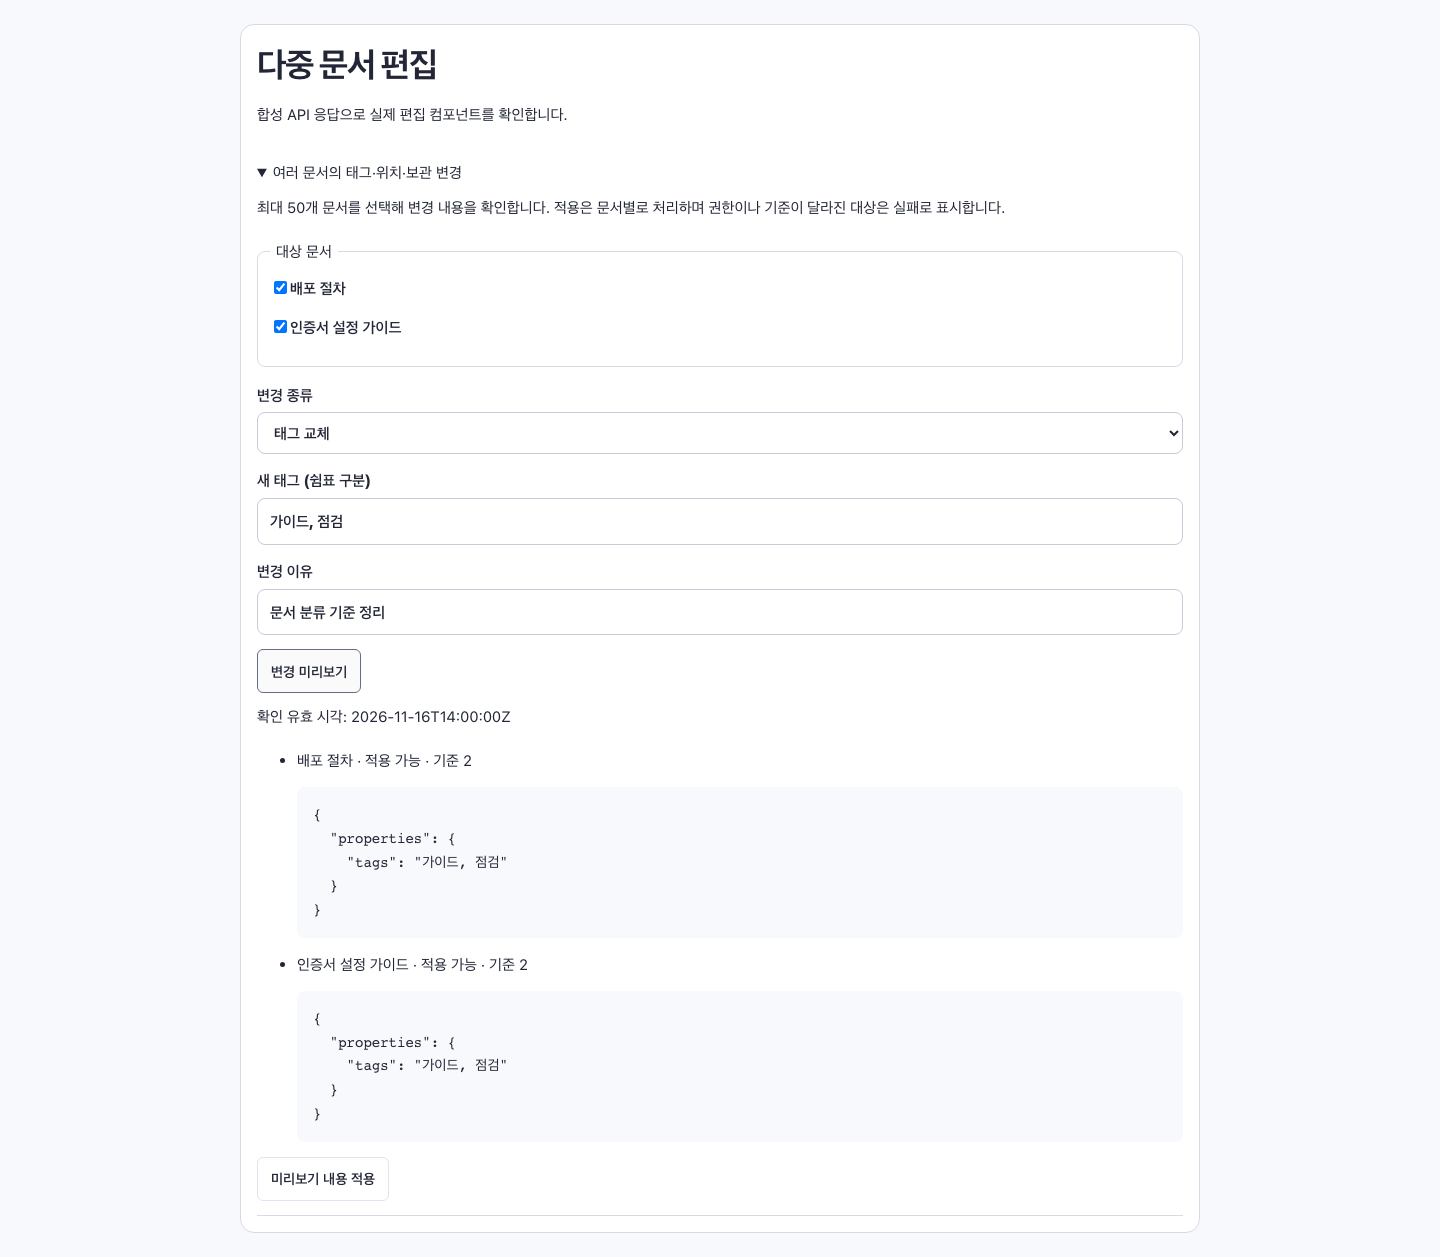
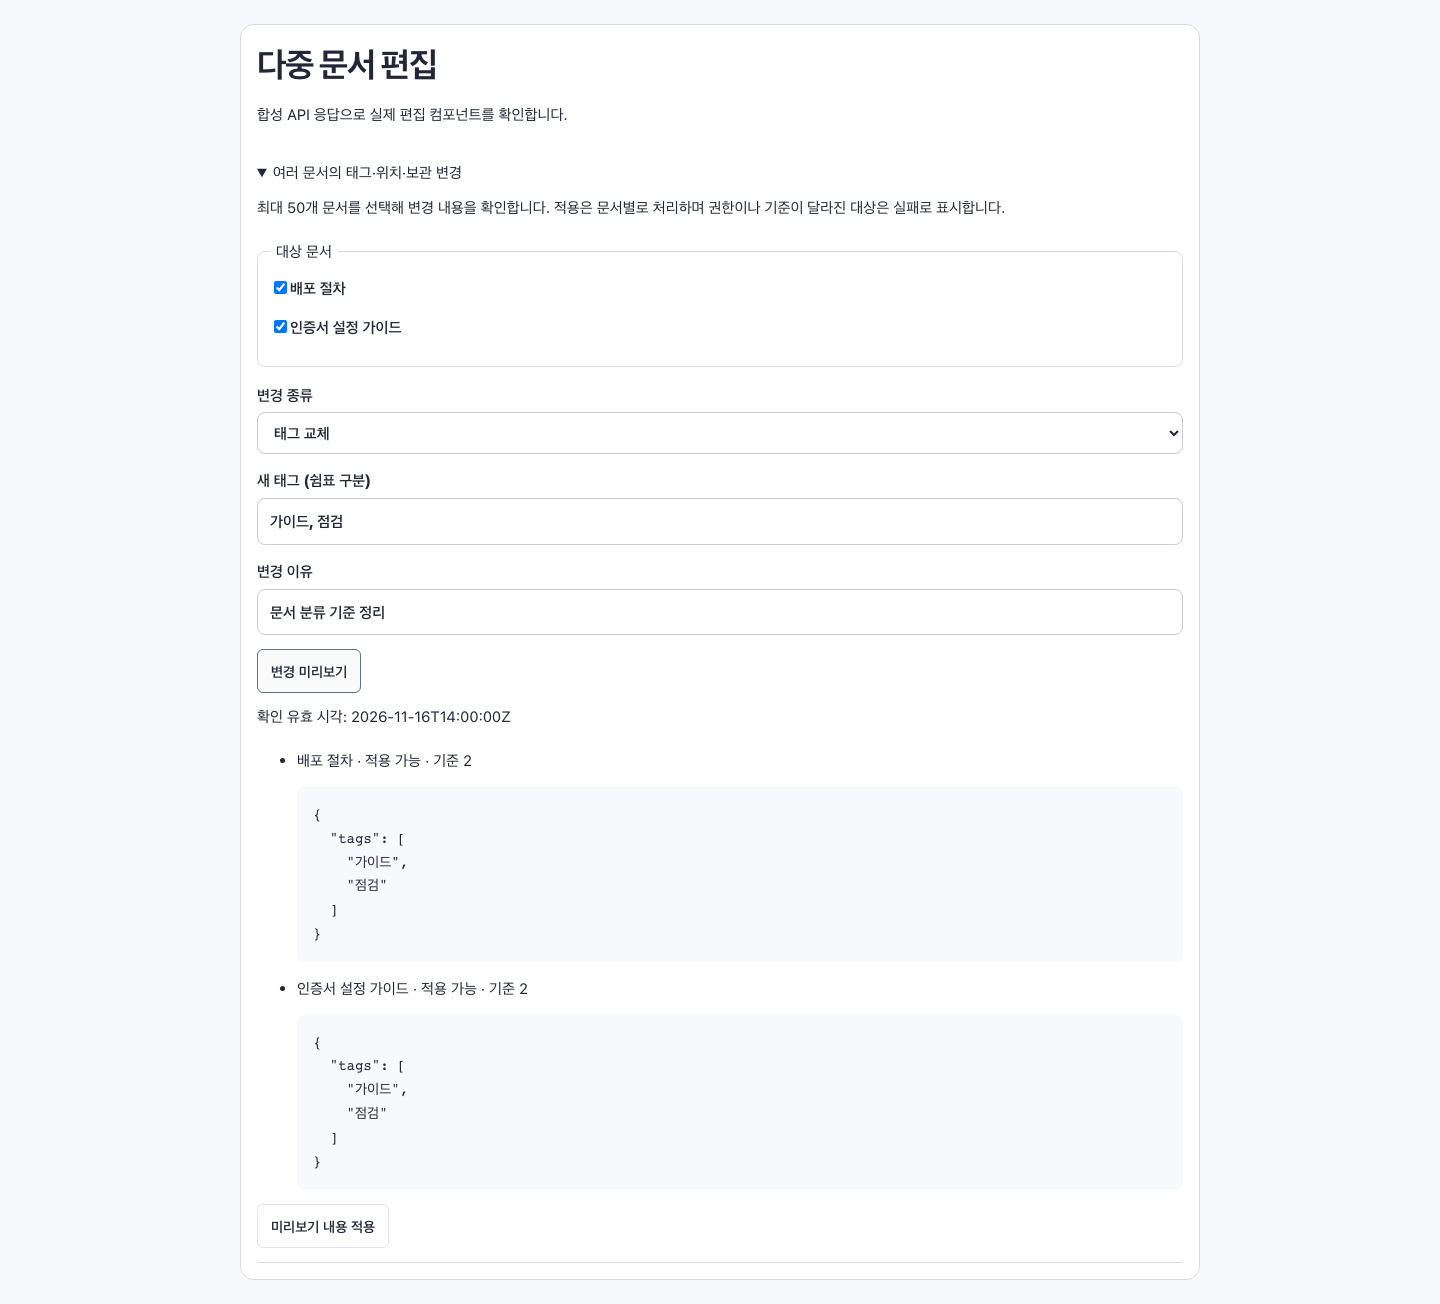
fix: synchronize canonical tags and reconcile bulk mutation receipts

diff --git a/src/operational/BulkEditor.tsx b/src/operational/BulkEditor.tsx
@@ -30,6 +30,7 @@ export function BulkEditor({
     [value, setValue] = useState(""),
     [reason, setReason] = useState(""),
     [preview, setPreview] = useState<Preview | null>(null),
+    [recovery, setRecovery] = useState<Preview | null>(null),
     [results, setResults] = useState<Outcome[]>([]),
     [busy, setBusy] = useState(false),
     [error, setError] = useState("");
@@ -38,6 +39,7 @@ export function BulkEditor({
     epoch.current++;
     setIds([]);
     setPreview(null);
+    setRecovery(null);
     setResults([]);
     setError("");
     setBusy(false);
@@ -48,6 +50,7 @@ export function BulkEditor({
   function change() {
     epoch.current++;
     setPreview(null);
+    setRecovery(null);
     setResults([]);
     setError("");
     setBusy(false);
@@ -58,13 +61,21 @@ export function BulkEditor({
     setError("");
     if (!apply) setPreview(null);
     try {
-      if (apply && preview) {
+      const chosen = preview ?? recovery;
+      if (apply && chosen) {
         const r = await api.post<{ items: Outcome[] }>(
           "/workflows/bulk/apply",
-          { token: preview.token },
+          { token: chosen.token },
         );
         if (request !== epoch.current) return;
         setResults(r.items);
+        setRecovery(
+          r.items.some(
+            (i) => i.status === "unconfirmed" || i.code === "NOT_PROCESSED",
+          )
+            ? chosen
+            : null,
+        );
         setPreview(null);
         try {
           await onChanged();
@@ -96,8 +107,12 @@ export function BulkEditor({
       }
     } catch (e) {
       if (request !== epoch.current) return;
+      if (apply) {
+        setRecovery(preview ?? recovery);
+      } else {
+        setResults([]);
+      }
       setPreview(null);
-      setResults([]);
       setError(e instanceof Error ? e.message : "요청 실패");
       if (
         typeof e === "object" &&
@@ -106,6 +121,8 @@ export function BulkEditor({
         [401, 403].includes(Number(e.status))
       ) {
         setIds([]);
+        setRecovery(null);
+        setResults([]);
         if (e.status === 401) onExpired();
       }
     } finally {
@@ -240,6 +257,11 @@ export function BulkEditor({
       )}
       {busy && <p role="status">처리 중입니다.</p>}
       {error && <p role="alert">{error}</p>}
+      {recovery && (
+        <Button disabled={busy} onClick={() => void run(true)}>
+          동일 요청의 처리 결과 다시 확인
+        </Button>
+      )}
       {results.length > 0 && (
         <section aria-label="일괄 변경 결과">
           <ul>
@@ -248,9 +270,11 @@ export function BulkEditor({
                 {pages.find((p) => p.id === r.id)?.title ?? "선택 문서"} ·{" "}
                 {r.status === "applied"
                   ? "적용됨"
-                  : r.status === "skipped"
-                    ? "제외됨"
-                    : "실패"}{" "}
+                  : r.status === "unconfirmed"
+                    ? "처리 확인 필요"
+                    : r.status === "skipped"
+                      ? "제외됨"
+                      : "실패"}{" "}
                 {r.code}
               </li>
             ))}
@@ -259,7 +283,14 @@ export function BulkEditor({
             onClick={() => {
               change();
               setIds(
-                results.filter((r) => r.status === "failed").map((r) => r.id),
+                results
+                  .filter(
+                    (r) =>
+                      r.status === "failed" ||
+                      r.status === "unconfirmed" ||
+                      r.code === "NOT_PROCESSED",
+                  )
+                  .map((r) => r.id),
               );
             }}
           >

diff --git a/server/workflows/service.ts b/server/workflows/service.ts
@@ -81,6 +81,7 @@ const docSchema = z
     restoreParentId: id.nullable().optional(),
     restoreTitle: z.string().trim().min(1).max(300).optional(),
     reason: z.string().trim().min(1).max(2000),
+    tags: z.array(z.string().trim().min(1).max(100)).max(30).optional(),
     properties: z.record(z.string().max(100), z.string().max(2000)).optional(),
     reviewDue: z.iso.datetime().nullable().optional(),
     effectiveFrom: z.iso.datetime().nullable().optional(),
@@ -200,8 +201,12 @@ export class WorkflowService {
       throw Error("NOT_FOUND");
     return p;
   }
-  bulkPreview(ctx: Context, input: unknown) { return bulkPreview(this, ctx, input); }
-  bulkApply(ctx: Context, input: unknown) { return bulkApply(this, ctx, input); }
+  bulkPreview(ctx: Context, input: unknown) {
+    return bulkPreview(this, ctx, input);
+  }
+  bulkApply(ctx: Context, input: unknown) {
+    return bulkApply(this, ctx, input);
+  }
   async drafts(ctx: Context) {
     return this.run(ctx, "draft.write", undefined, async (db) => {
       const rows = await db.query(
@@ -590,7 +595,12 @@ export class WorkflowService {
       },
     );
   }
-  async setDocumentState(ctx: Context, pageId: string, input: unknown) {
+  async setDocumentState(
+    ctx: Context,
+    pageId: string,
+    input: unknown,
+    bulkReceiptId?: string,
+  ) {
     const d = docSchema.parse(input);
     return this.run(
       ctx,
@@ -627,6 +637,19 @@ export class WorkflowService {
         } else await this.page(db, ctx, pageId);
         for (const sid of current(p).sourceIds)
           await requireRead(db, ctx, "source", sid);
+        if (bulkReceiptId) {
+          const saved = await db.query(
+            "SELECT data FROM workflow_events WHERE workspace_id=$1 AND id=$2 AND principal_id=$3 AND kind='bulk.apply' AND resource_id=$4",
+            [ctx.workspaceId, bulkReceiptId, ctx.principalId, pageId],
+          );
+          if (saved.rowCount)
+            return {
+              id: pageId,
+              revision: Number(saved.rows[0].data.revision),
+              state: r.rows[0]?.state ?? "active",
+              parentId: r.rows[0]?.parent_id ?? null,
+            };
+        }
         if ((r.rows[0]?.revision ?? 0) !== d.expectedRevision)
           throw Error("STALE_VERSION");
         const restoring = r.rows[0]?.state === "trash" && d.state === "active";
@@ -687,6 +710,7 @@ export class WorkflowService {
           state: ___,
           restoreParentId: ____,
           restoreTitle: _____,
+          tags: ______,
           ...settings
         } = d;
         const next = { ...(r.rows[0]?.data ?? {}), ...settings };
@@ -791,6 +815,11 @@ export class WorkflowService {
               );
             }
         }
+        if (d.tags !== undefined)
+          await db.query(
+            "UPDATE pages SET data=jsonb_set(data,'{tags}',$3::jsonb) WHERE workspace_id=$1 AND id=$2",
+            [ctx.workspaceId, pageId, JSON.stringify([...new Set(d.tags)])],
+          );
         await finishVersionMetadataChange(
           db,
           ctx,
@@ -799,6 +828,17 @@ export class WorkflowService {
           this.authorize,
         );
         await audit(db, ctx, "page.lifecycle", pageId);
+        if (bulkReceiptId)
+          await db.query(
+            "INSERT INTO workflow_events(workspace_id,id,principal_id,kind,resource_id,data) VALUES($1,$2,$3,'bulk.apply',$4,$5)",
+            [
+              ctx.workspaceId,
+              bulkReceiptId,
+              ctx.principalId,
+              pageId,
+              { revision: d.expectedRevision + 1 },
+            ],
+          );
         return {
           id: pageId,
           revision: d.expectedRevision + 1,

diff --git a/server/workflows/bulk.test.ts b/server/workflows/bulk.test.ts
@@ -46,10 +46,26 @@ test("bulk preview does not change document metadata; apply preserves other prop
   });
   expect(
     (await service.document(f.ctx, "topic")).settings.data.properties,
-  ).toEqual({ environment: "prod", tags: "guide, 한글" });
+  ).toEqual({ environment: "prod", tags: "old" });
+  expect((await service.document(f.ctx, "topic")).page.tags).toEqual([
+    "guide",
+    "한글",
+  ]);
+  const { adoptFixture } = await import("../test-support");
+  await adoptFixture(f.pool, f.workspaceId);
+  const { ScopedSearch } = await import("../questions/search");
+  const search = new ScopedSearch(f.pool, {
+    runtime: service.runtime,
+    authorize: service.authorize,
+  });
+  expect(
+    (await search.search(f.ctx, { tags: ["guide"] })).items.map(
+      (i) => i.pageId,
+    ),
+  ).toContain("topic");
   expect(
     (await service.bulkApply(f.ctx, { token: preview.token })).items[0],
-  ).toMatchObject({ status: "failed", code: "STALE_VERSION" });
+  ).toMatchObject({ status: "applied", revision: 2 });
 });
 test("bulk operations keep per-target failures and reject forged or cross-user previews", async () => {
   const preview = await service.bulkPreview(f.ctx, {
@@ -85,8 +101,8 @@ test("permission changes after preview prevent bulk writes", async () => {
   );
   const result = await service.bulkApply(f.ctx, { token: preview.token });
   expect(result.items[0]).toMatchObject({
-    status: "failed",
-    code: "NOT_FOUND",
+    status: "unconfirmed",
+    code: "OUTCOME_UNCONFIRMED",
   });
 });
 test("native runtime bulk routes require authenticated current roles and CSRF", async () => {
@@ -173,4 +189,31 @@ test("native runtime bulk routes require authenticated current roles and CSRF", 
     await new Promise<void>((r) => host.close(() => r()));
     await new Promise<void>((r) => provider.close(() => r()));
   }
+});
+
+test("bulk recovers a committed result after response loss and reports unprocessed targets", async () => {
+  const preview = await service.bulkPreview(f.ctx, {
+    pageIds: ["topic"],
+    operation: { kind: "archive" },
+    reason: "복구 확인",
+  });
+  const apply = service.setDocumentState.bind(service);
+  let lost = true;
+  service.setDocumentState = async (
+    ...args: Parameters<typeof service.setDocumentState>
+  ) => {
+    const r = await apply(...args);
+    if (lost) {
+      lost = false;
+      throw Error("CONNECTION_LOST_AFTER_COMMIT");
+    }
+    return r;
+  };
+  expect(
+    (await service.bulkApply(f.ctx, { token: preview.token })).items[0],
+  ).toMatchObject({ status: "unconfirmed", code: "OUTCOME_UNCONFIRMED" });
+  expect(
+    (await service.bulkApply(f.ctx, { token: preview.token })).items[0],
+  ).toMatchObject({ status: "applied", revision: 1 });
+  expect((await service.document(f.ctx, "topic")).settings.revision).toBe(1);
 });

diff --git a/server/workflows/bulk.ts b/server/workflows/bulk.ts
@@ -1,4 +1,9 @@
-import { createHmac, randomBytes, timingSafeEqual } from "node:crypto";
+import {
+  createHash,
+  createHmac,
+  randomBytes,
+  timingSafeEqual,
+} from "node:crypto";
 import { z } from "zod";
 import type { Context } from "../service";
 import type { WorkflowService } from "./service";
@@ -110,13 +115,7 @@ export async function bulkPreview(
           ancestor = parent.settings.parent_id;
         }
         patch = { parentId: d.operation.parentId };
-      } else
-        patch = {
-          properties: {
-            ...(doc.settings.data?.properties ?? {}),
-            tags: [...new Set(d.operation.tags)].join(", "),
-          },
-        };
+      } else patch = { tags: [...new Set(d.operation.tags)] };
       items.push({
         id: pageId,
         status: "ready",
@@ -164,11 +163,19 @@ export async function bulkApply(
       continue;
     }
     try {
-      const result = await service.setDocumentState(ctx, i.id, {
-        ...i.patch,
-        expectedRevision: i.expectedRevision,
-        reason: value.reason,
-      });
+      const result = await service.setDocumentState(
+        ctx,
+        i.id,
+        {
+          ...i.patch,
+          expectedRevision: i.expectedRevision,
+          reason: value.reason,
+        },
+        "bulk-" +
+          createHash("sha256")
+            .update(token + ":" + i.id)
+            .digest("hex"),
+      );
       items.push({
         id: i.id,
         status: "applied" as const,
@@ -177,16 +184,23 @@ export async function bulkApply(
     } catch (e) {
       if (
         e instanceof Error &&
-        [
-          "NOT_FOUND",
-          "FORBIDDEN",
-          "STALE_VERSION",
-          "VALIDATION_FAILED",
-          "POLICY_UNAVAILABLE",
-        ].includes(e.message)
+        ["STALE_VERSION", "VALIDATION_FAILED"].includes(e.message)
       )
         items.push({ id: i.id, status: "failed" as const, code: e.message });
-      else throw e;
+      else {
+        items.push({
+          id: i.id,
+          status: "unconfirmed" as const,
+          code: "OUTCOME_UNCONFIRMED",
+        });
+        for (const pending of value.items.slice(items.length))
+          items.push({
+            id: pending.id,
+            status: "skipped" as const,
+            code: "NOT_PROCESSED",
+          });
+        break;
+      }
     }
   }
   return { items };
